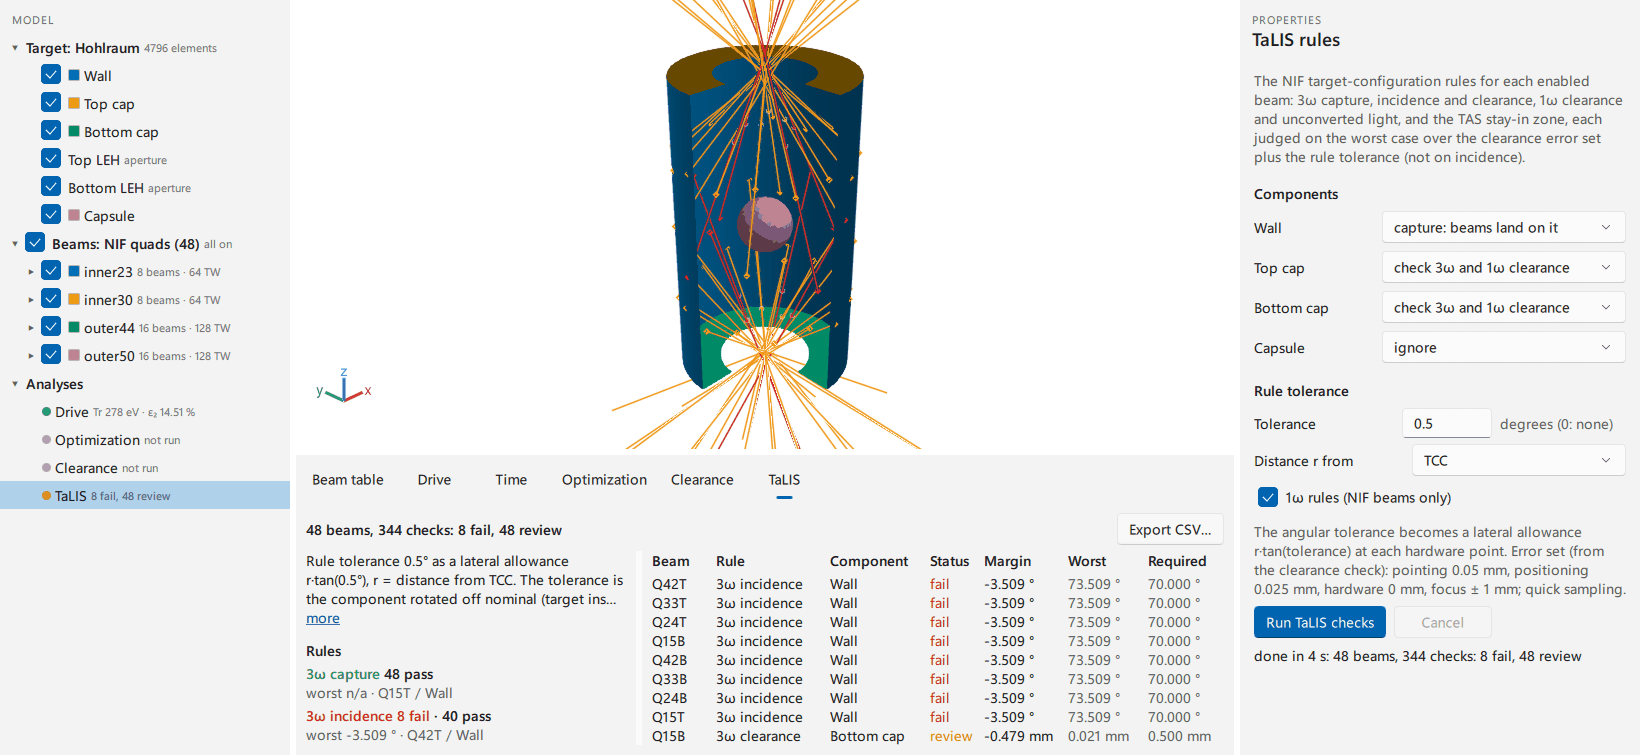
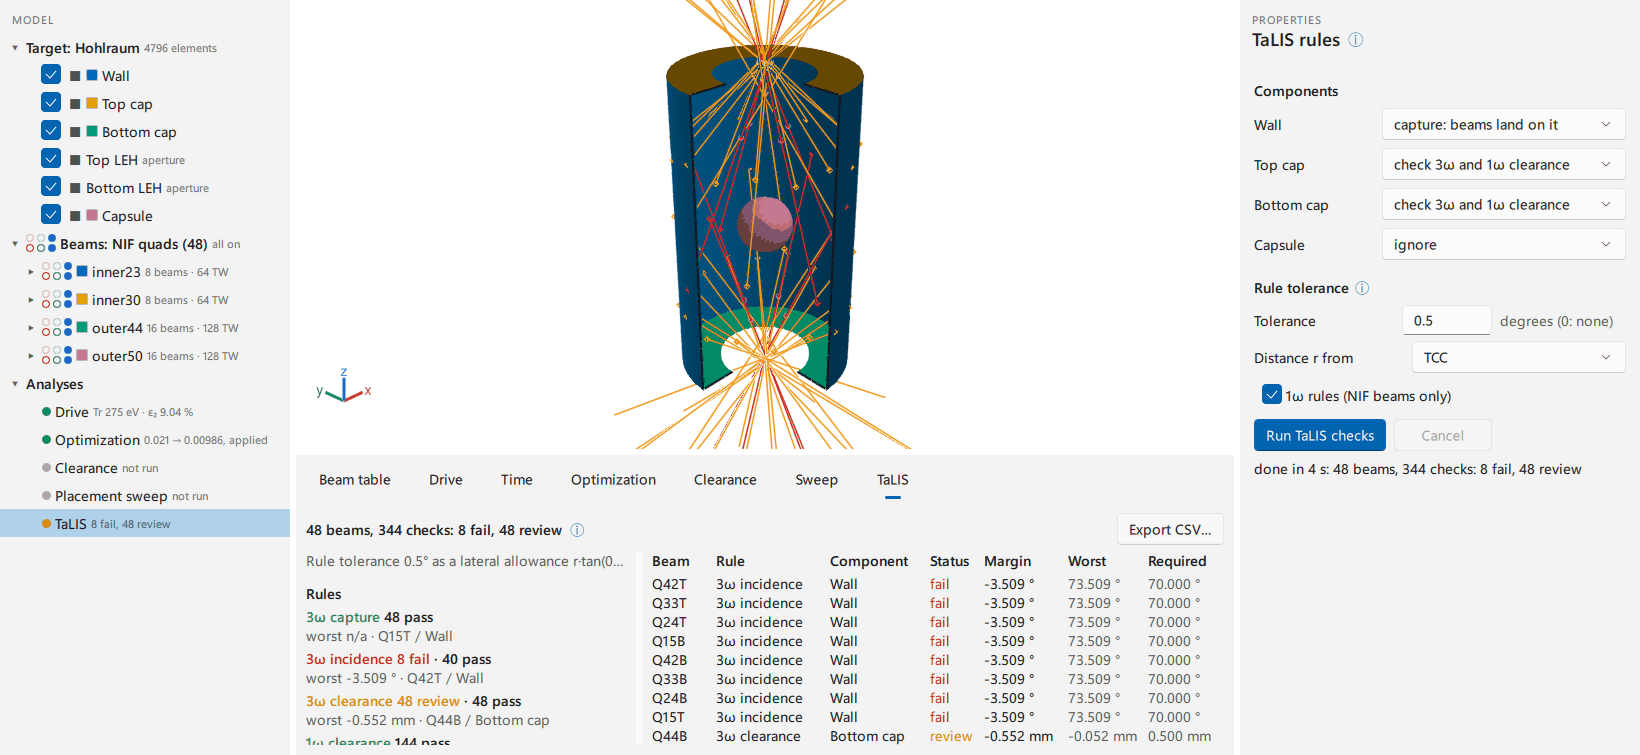
Docs: regenerate GUI screenshots; add beam matrix, display/cut, plane cut, cut settings, sweep and Help
Six existing images regenerated from `dev/gui_screenshots.jl` (in-app grabs only);
six added with captions in gui.md. The beam-matrix image uses illustrative 5 % 1ω/2ω
ratios (stated in its caption). The script gains stages for the new images and
recomputes the drive and TaLIS after adding the window, so no analysis shows as stale.
Docs build not rerun (stopped for memory); docrefs and prose lint pass.

diff --git a/docs/src/gui.md b/docs/src/gui.md
@@ -208,6 +208,8 @@ the beamlet's side of its quad, and the square beam converging to its own focus
 (outlines and center lines as rays, the converging beam as a volume). Its participation
 dots switch once the drive has a power ratio for that color (below).
 
+![The beam matrix: each beam row of the model tree carries 2 × 3 dots (1ω, 2ω, 3ω; the top row in the calculations, the bottom row drawn), and the properties of the inner quad Q15T hold the same matrix as check boxes. With illustrative 1ω and 2ω power ratios of 5 % each, Q15T's unconverted light is drawn (each color's outlines and center lines as rays) while its 3ω light alone takes part in the calculations; the rows of its group and of all the beams show the 1ω and 2ω drawing dots pale, on for one of their beams.](assets/gui/beam_matrix.png)
+
 A component's box shows or hides it, and its glyph (also the context menu and
 Properties ▸ *Display*) sets its display mode: opaque, semi-transparent, wireframe or
 invisible. A click selects through semi-transparent and wireframe components to an
@@ -222,6 +224,8 @@ refused with the reason in the status line. The pages hold controls and short st
 lines; an ⓘ beside a page title, a section heading or a control shows its explanation on
 hover and, when clicked, opens it on the Help screen (Help ▸ Help topics, F1), which
 collects every explanation by page. Help ▸ Documentation opens this page.
+
+![The Help screen at the placement sweep's page: the explanations behind the ⓘ marks, listed by page, with a link to this documentation.](assets/gui/help.png)
 
 - **Target:** the template (hohlraum with capsule, backlighter foil, or custom parts
   only), its dimensions and wall material, and the mesh: a preset (above) or element
@@ -309,6 +313,12 @@ the cut's edges are outlined. (A slice narrower than 180° removes the intersect
 half-spaces, so what remains is a union that one set of GPU clip planes cannot express;
 splitting the triangles also keeps picking and the outline exact.)
 
+![Display modes and a bounded sector cut on the hohlraum template, colored by the incident x-ray flux: the top cap drawn as a wireframe (its Display setting in Properties), the bottom cap semi-transparent, and a 120° slice of the wall toward the view removed between z = −3 mm and z = 3 mm, clipped at the cut rather than by whole elements.](assets/gui/display_cut.png)
+
+![A round diagnostic window 2 mm across in the wall at φ = 90°, z = 0, cut by the plane that contains its line of sight (from the window's centroid along θ = 90°, φ = 90°, at a rotation of 0°: the vertical plane with normal −x), so that the cut halves the window along the line. The drive, computed again with the window, puts 4.47 TW (1.17 %) of the 384 TW delivered on it.](assets/gui/cut_plane.png)
+
+![The Cut settings popup for that plane: the normal θ = 90°, φ = 180° (the vector −1, 0, 0) through the window's centroid at (0, 2.83, 0) mm, the offset slider, and the direction θ = 90°, φ = 90° whose line from the selected component the plane contains.](assets/gui/cut_settings.png)
+
 Beams are drawn as rays (each axis from the lens side to the surface it lands on, with
 the aim point marked) or as volumes, and colored by group or by their worst clearance or
 TaLIS status, in the tree's colors. The target is colored by component or by the
@@ -385,6 +395,8 @@ The bottom panel's tabs:
   and *Apply step* (or a double click) moves the part there as one edit, with the
   re-optimized pointing when the sweep re-optimized. A sweep is marked out of date when
   the design or a setting it used changes.
+
+  ![A placement sweep of the backlighter foil along its front normal, from 2 mm farther from the target chamber center to 2 mm nearer it in 1 mm steps (the foil 8 mm to 4 mm from it), with the clearance check, the line of sight from the foil through the main target, and the power the foil captures. The least clearance falls from −1.130 mm to −1.901 mm (beams B35 and B36 on the main target), the line of sight stays clear, and the least fraction of a beam's power on the foil drops from 95.62 % at no shift to 63.50 % at +2 mm; the step at +1 mm is selected.](assets/gui/sweep.png)
 - **TaLIS:** the NIF target-configuration checks ([`talis_check`](@ref)): 3ω capture,
   incidence and clearance, 1ω clearance and unconverted-light management, and the TAS
   stay-in zone, on the chosen capture components, checked components and diagnostics
